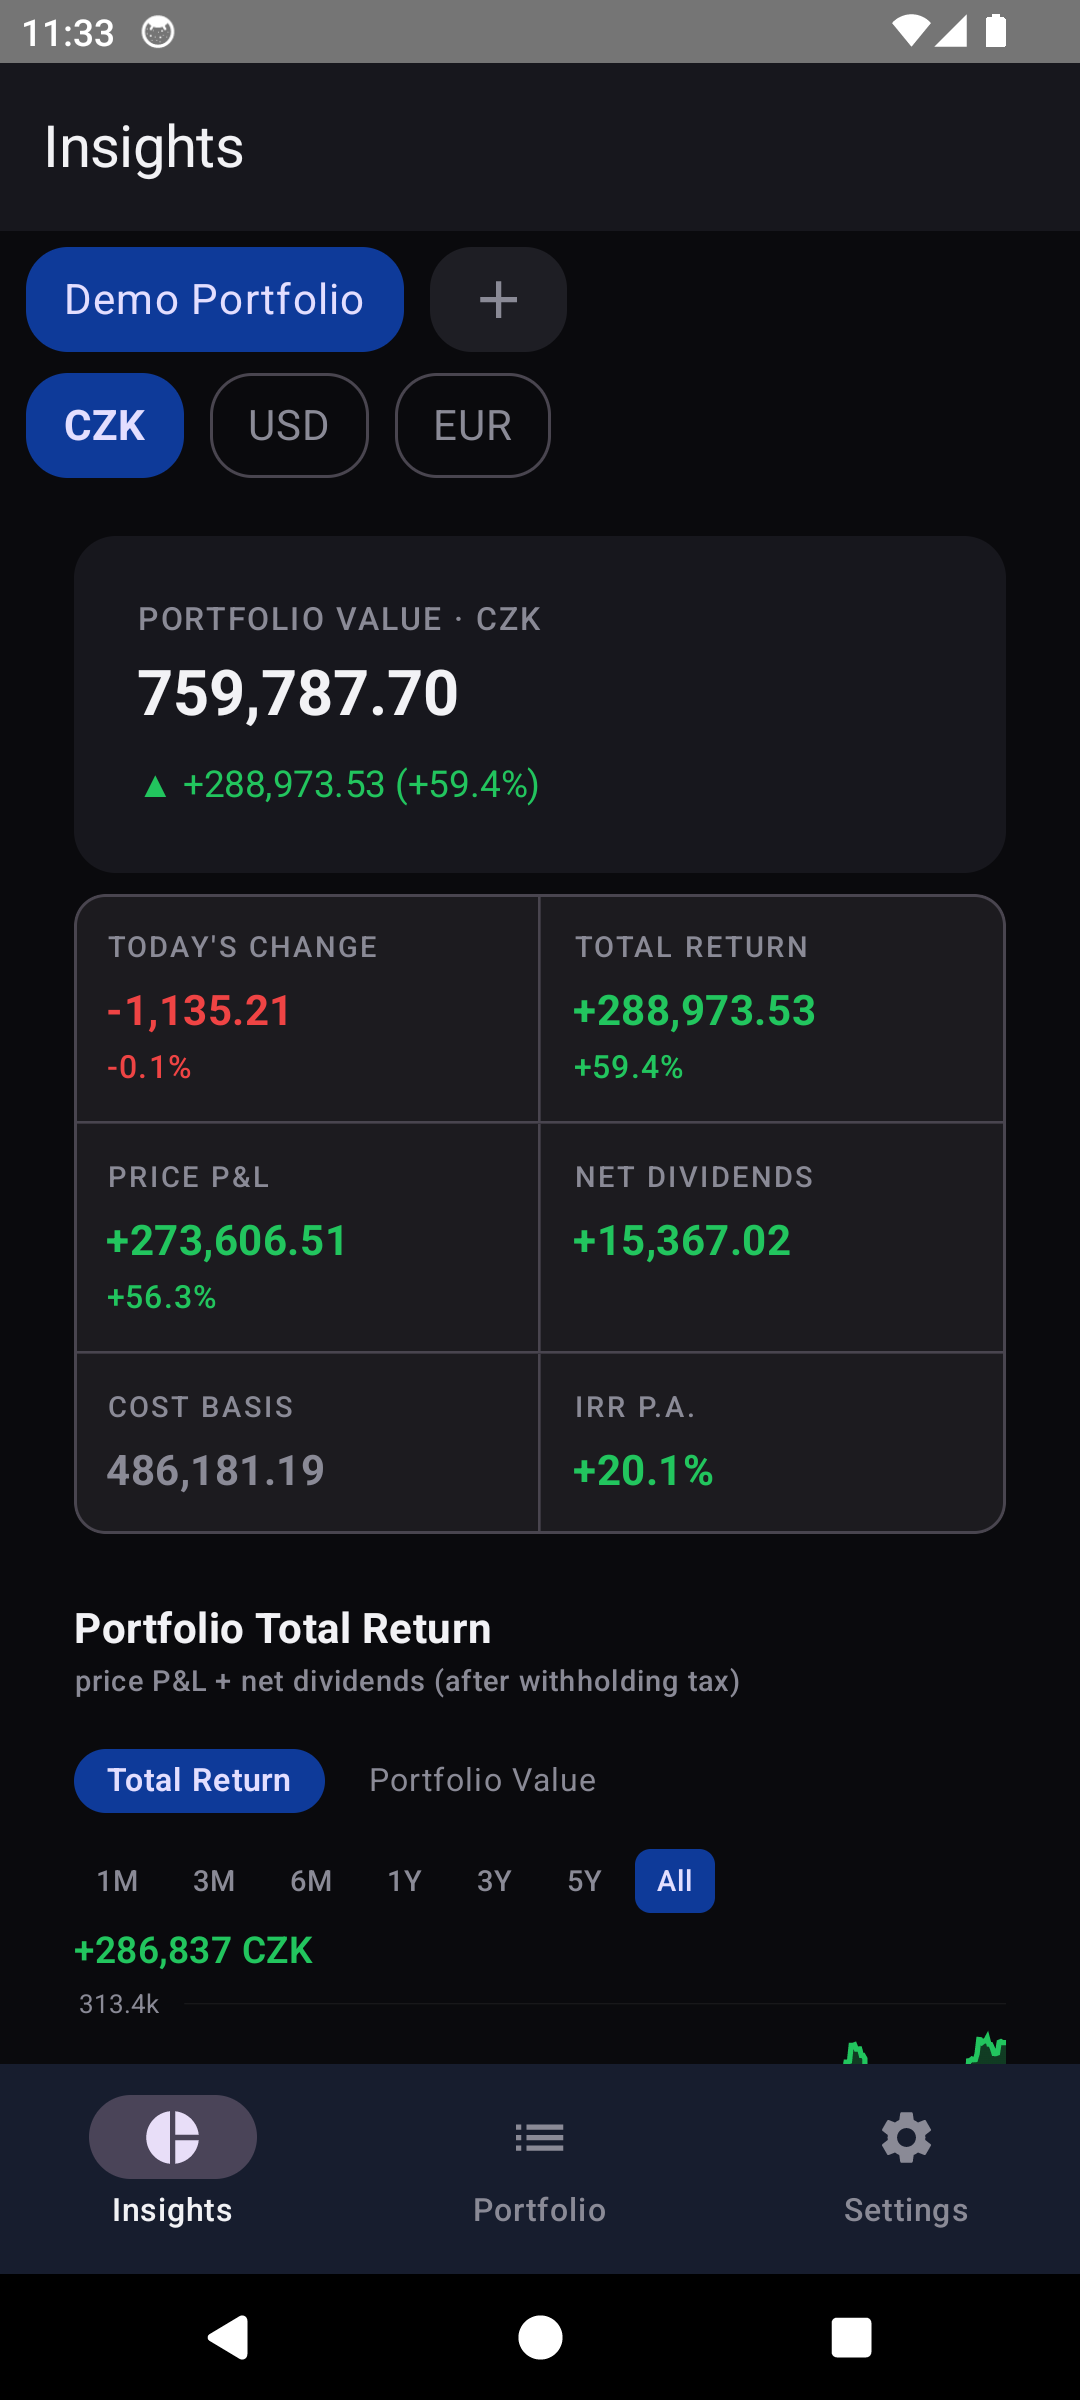
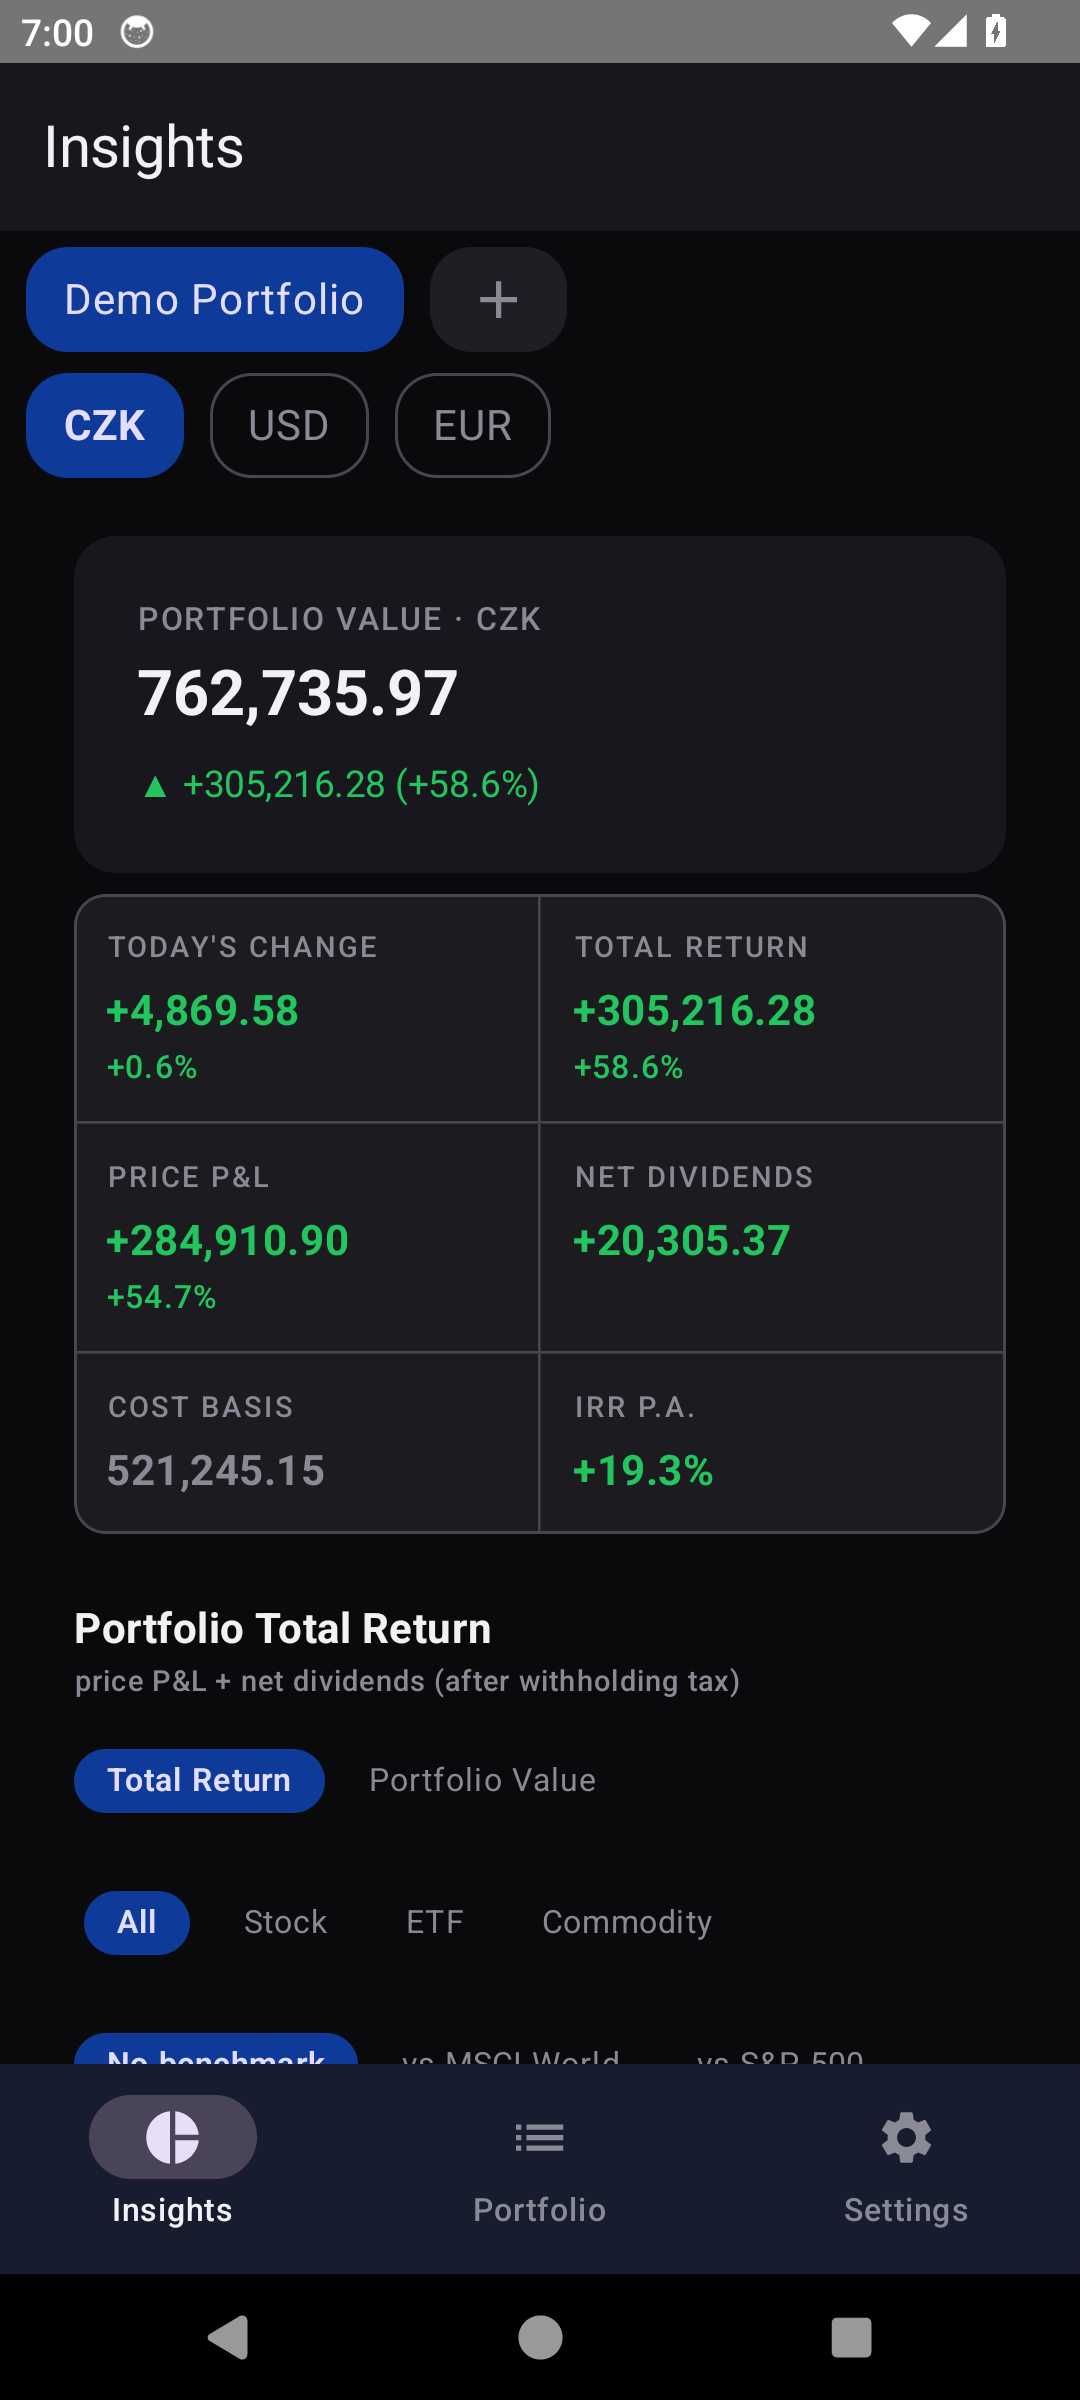
docs: README features and screenshots for v0.9.0
Adds the type filter, benchmark line, Czech 3-year tax panel, dividend
forecast, price alerts and widget to the feature list, recaptures the web
and Android screenshots on the demo dataset, and adds web tax, Android
chart and Android tax shots. The demo dataset gains two invented sold lots
(one past the 3-year test, one taxable) so the tax panel has something to
show.

diff --git a/README.md b/README.md
@@ -15,9 +15,16 @@ A self-hosted portfolio tracker for Czech and international stocks, ETFs, funds,
 - **Returns.** Shows realized and unrealized P&L, net dividends after per-country withholding tax (editable per payout), and IRR per position and per portfolio.
 - **Full position lifecycle.** Buy, sell partially or fully, record past closed positions, and edit individual lots.
 - **Today's change that means today.** The figure resets at midnight in *your* time zone, not at the exchange's previous close, and includes the currency's own move. On a closed market it reads `0.00` and says why, rather than quietly showing Friday's number.
-- **Charts.** Portfolio total return and value over time (converted at each day's historical FX rate), distribution pies, and a price chart per position.
+- **Charts.** Portfolio total return and value over time (converted at each day's historical FX rate), distribution pies, and a price chart per position. Chips narrow the chart to stocks, ETFs, funds, commodities or crypto.
+- **Benchmark.** A dashed MSCI World or S&P 500 line shows what the same buys and sells, on the same dates, would have earned in the index.
 
-![Portfolio total return chart over the full holding period, with cost-basis, current-value and total-return distribution pies below it](docs/screenshots/web-charts.png)
+![Portfolio total return chart with a dashed MSCI World benchmark line and type-filter chips, with cost-basis, current-value and total-return distribution pies below it](docs/screenshots/web-charts.png)
+
+- **Czech 3-year time test.** Realized gains per year split into taxable and exempt (in CZK, at buy- and sell-date rates), a flag for years where taxable sales stayed within 100,000 CZK, and the date each open lot becomes tax-free. An estimate, not tax advice.
+- **Dividend forecast.** Expected net dividends for the next 12 months, with a calendar of expected payments, based on the last 12 months repeated on the shares you hold now.
+
+![Czech tax panel: 2025 realized gains split into taxable and exempt, a ≤ 100k proceeds badge, and the date each open lot passes the 3-year test](docs/screenshots/web-tax.png)
+
 - **Import.** Reads XTB, Fio banka, Revolut, Trading 212, and Degiro statements, plus any CSV or XLSX through a column-mapping wizard. Sells are matched FIFO, and tickers and types are resolved from ISINs automatically.
 - **Export.** One JSON backup covers positions, manual prices, and tax overrides.
 - **Durable storage.** Writes are atomic, and the server keeps daily backups for the last 7 days. The Docker image includes a healthcheck.
@@ -29,8 +36,13 @@ The Android app is native Kotlin + Jetpack Compose.
 <table>
 <tr>
 <td width="33%"><img alt="Android position list: one card per holding with its logo, type and currency badges, value, today's change and total return" src="docs/screenshots/android-portfolio.png"></td>
+<td width="33%"><img alt="Android insights tab: portfolio value, today's change, total return, price P&amp;L, net dividends, cost basis and IRR" src="docs/screenshots/android-insights.png"></td>
+<td width="33%"><img alt="Android total-return chart with type-filter chips and a dashed MSCI World benchmark line" src="docs/screenshots/android-chart.png"></td>
+</tr>
+<tr>
+<td width="33%"><img alt="Android dividend forecast for the next 12 months and the Czech 3-year tax card" src="docs/screenshots/android-tax.png"></td>
 <td width="33%"><img alt="Android instrument detail: market hours shown in the user's own time zone, an essentials grid, and 1D/1W/1M/3M return chips" src="docs/screenshots/android-instrument.png"></td>
-<td width="33%"><img alt="Android insights tab: portfolio value, today's change, total return, price P&amp;L, net dividends, cost basis and IRR, above the total-return chart" src="docs/screenshots/android-insights.png"></td>
+<td width="33%"></td>
 </tr>
 </table>
 
@@ -39,6 +51,9 @@ The Android app is native Kotlin + Jetpack Compose.
 - **Statement import on the phone.** Handles all five broker formats.
 - **Conflict-safe sync.** Edits made offline on both devices are merged. If the same record changed in both places, the app asks you which version to keep.
 - **Instrument detail.** Market hours drawn in your own time zone, an essentials grid (exchange, ISIN, 52-week range, distribution type, fees), period returns, and the fund or company description.
+- **Same insights as the web.** Type filter, benchmark line, Czech tax card and dividend forecast. A shared test fixture runs one portfolio through both apps' calculations and fails if any figure differs by more than 0.01.
+- **Price alerts.** A notification when a price crosses a level you set, checked every 15 minutes, once per crossing.
+- **Home-screen widget.** Portfolio value and today's change, as the app last computed them.
 
 ## Quick start
 
